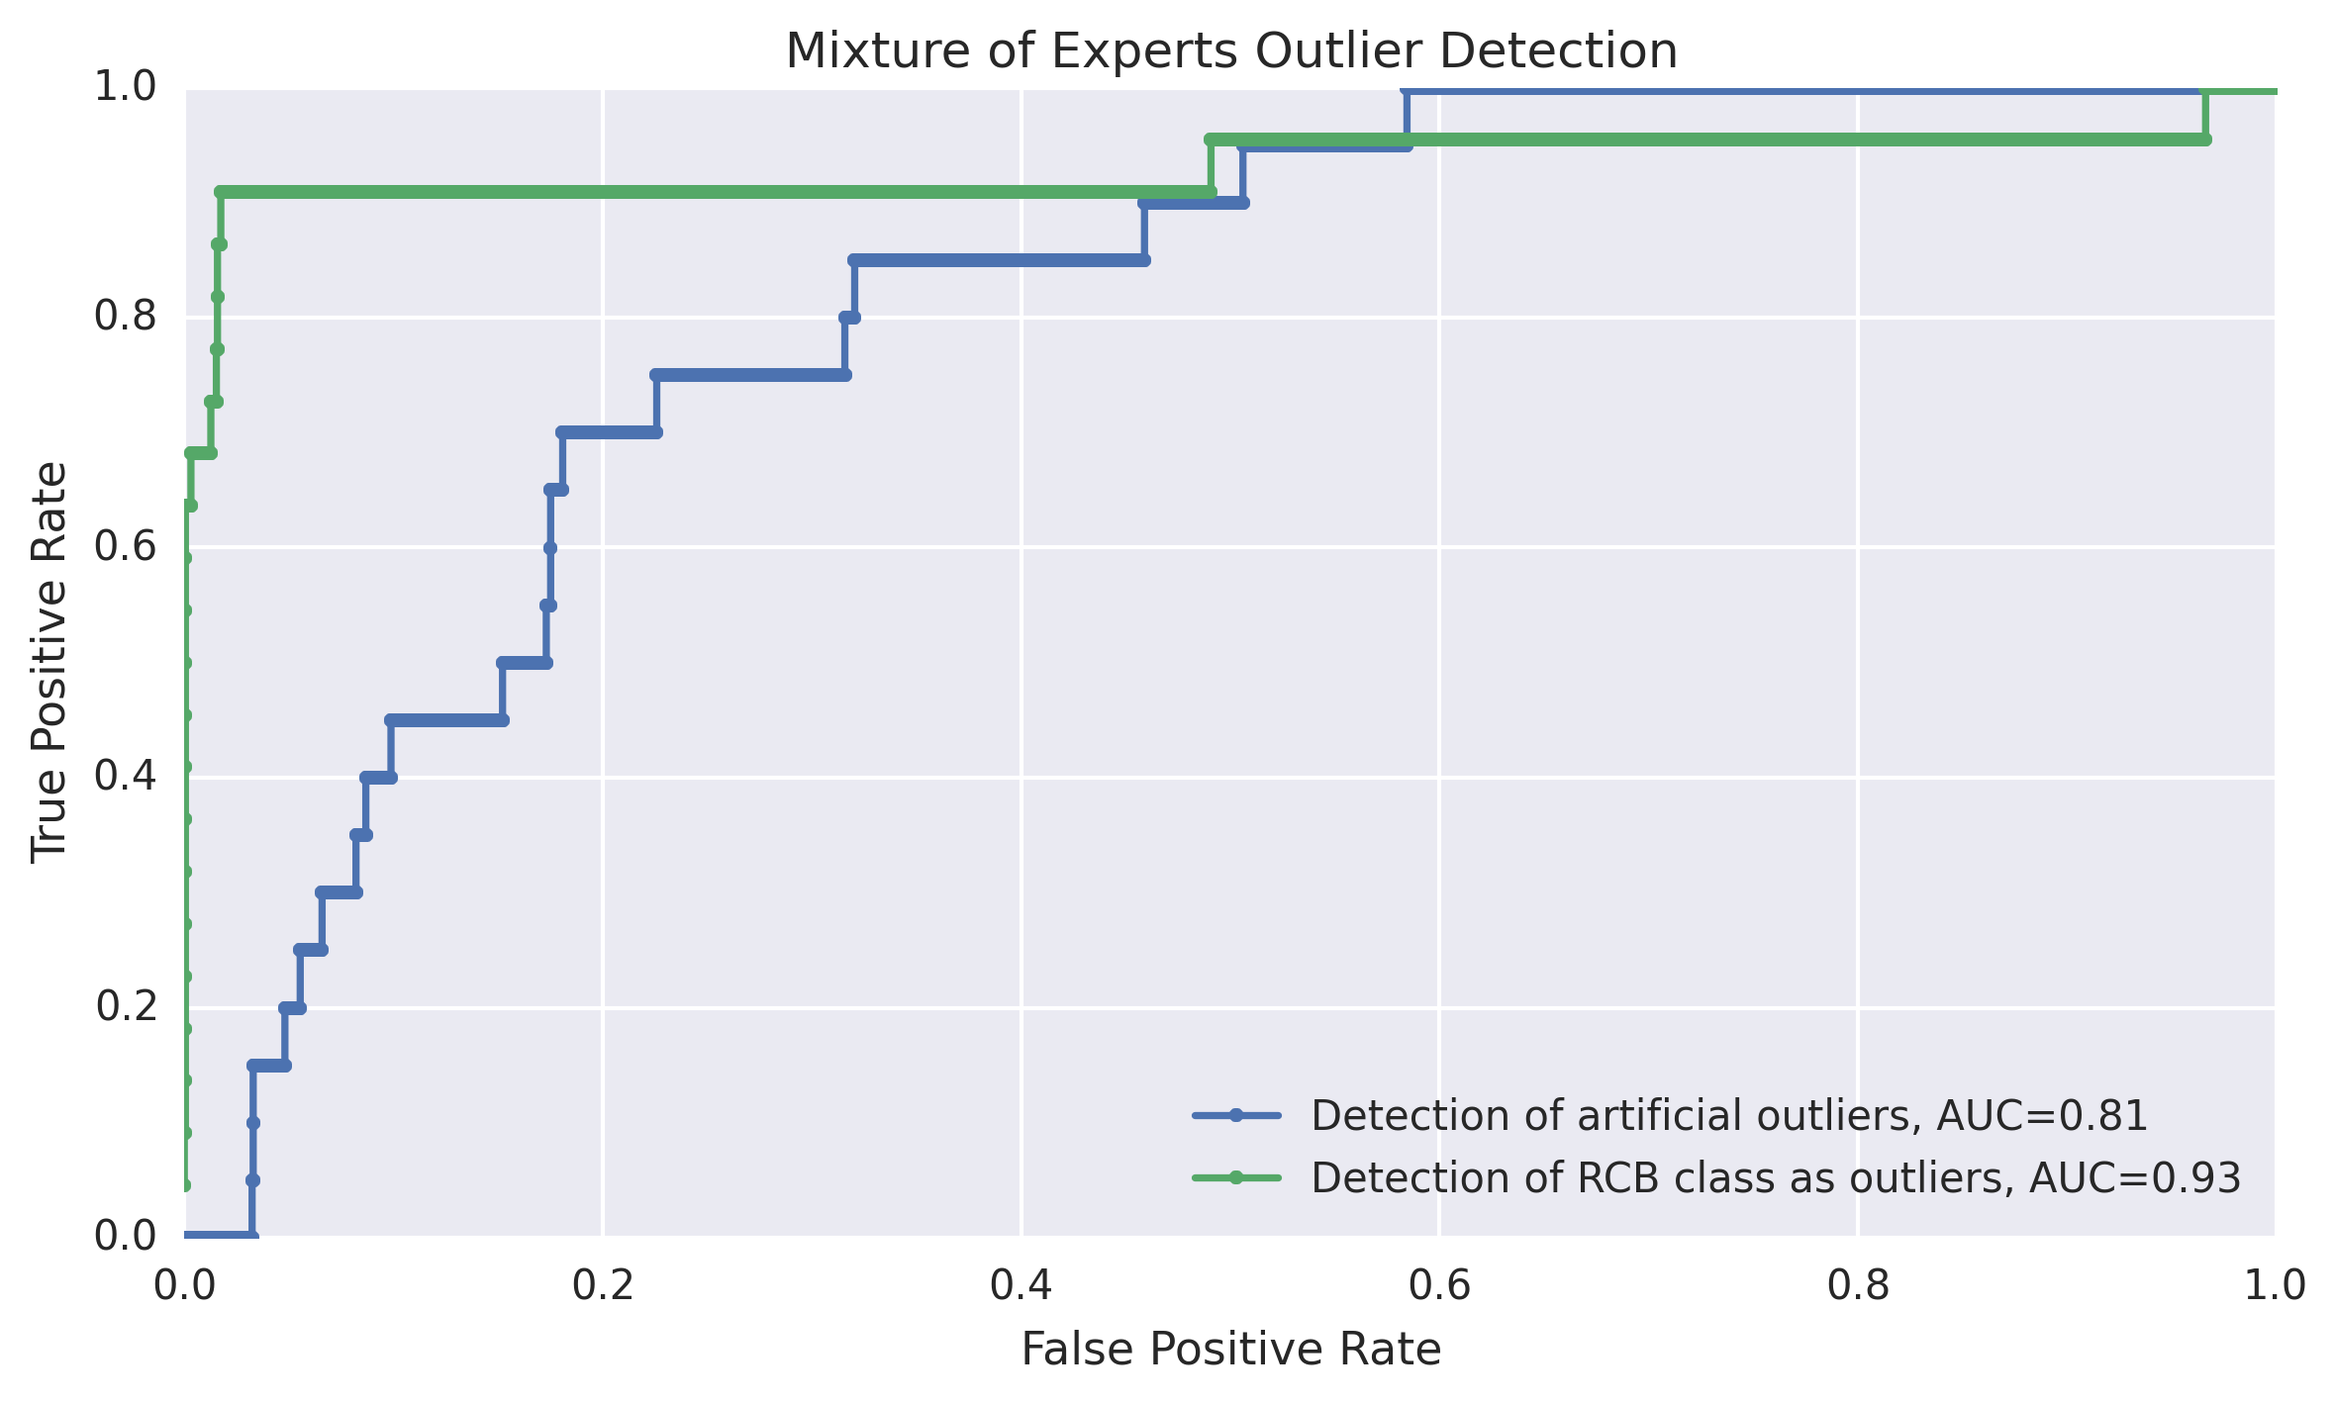
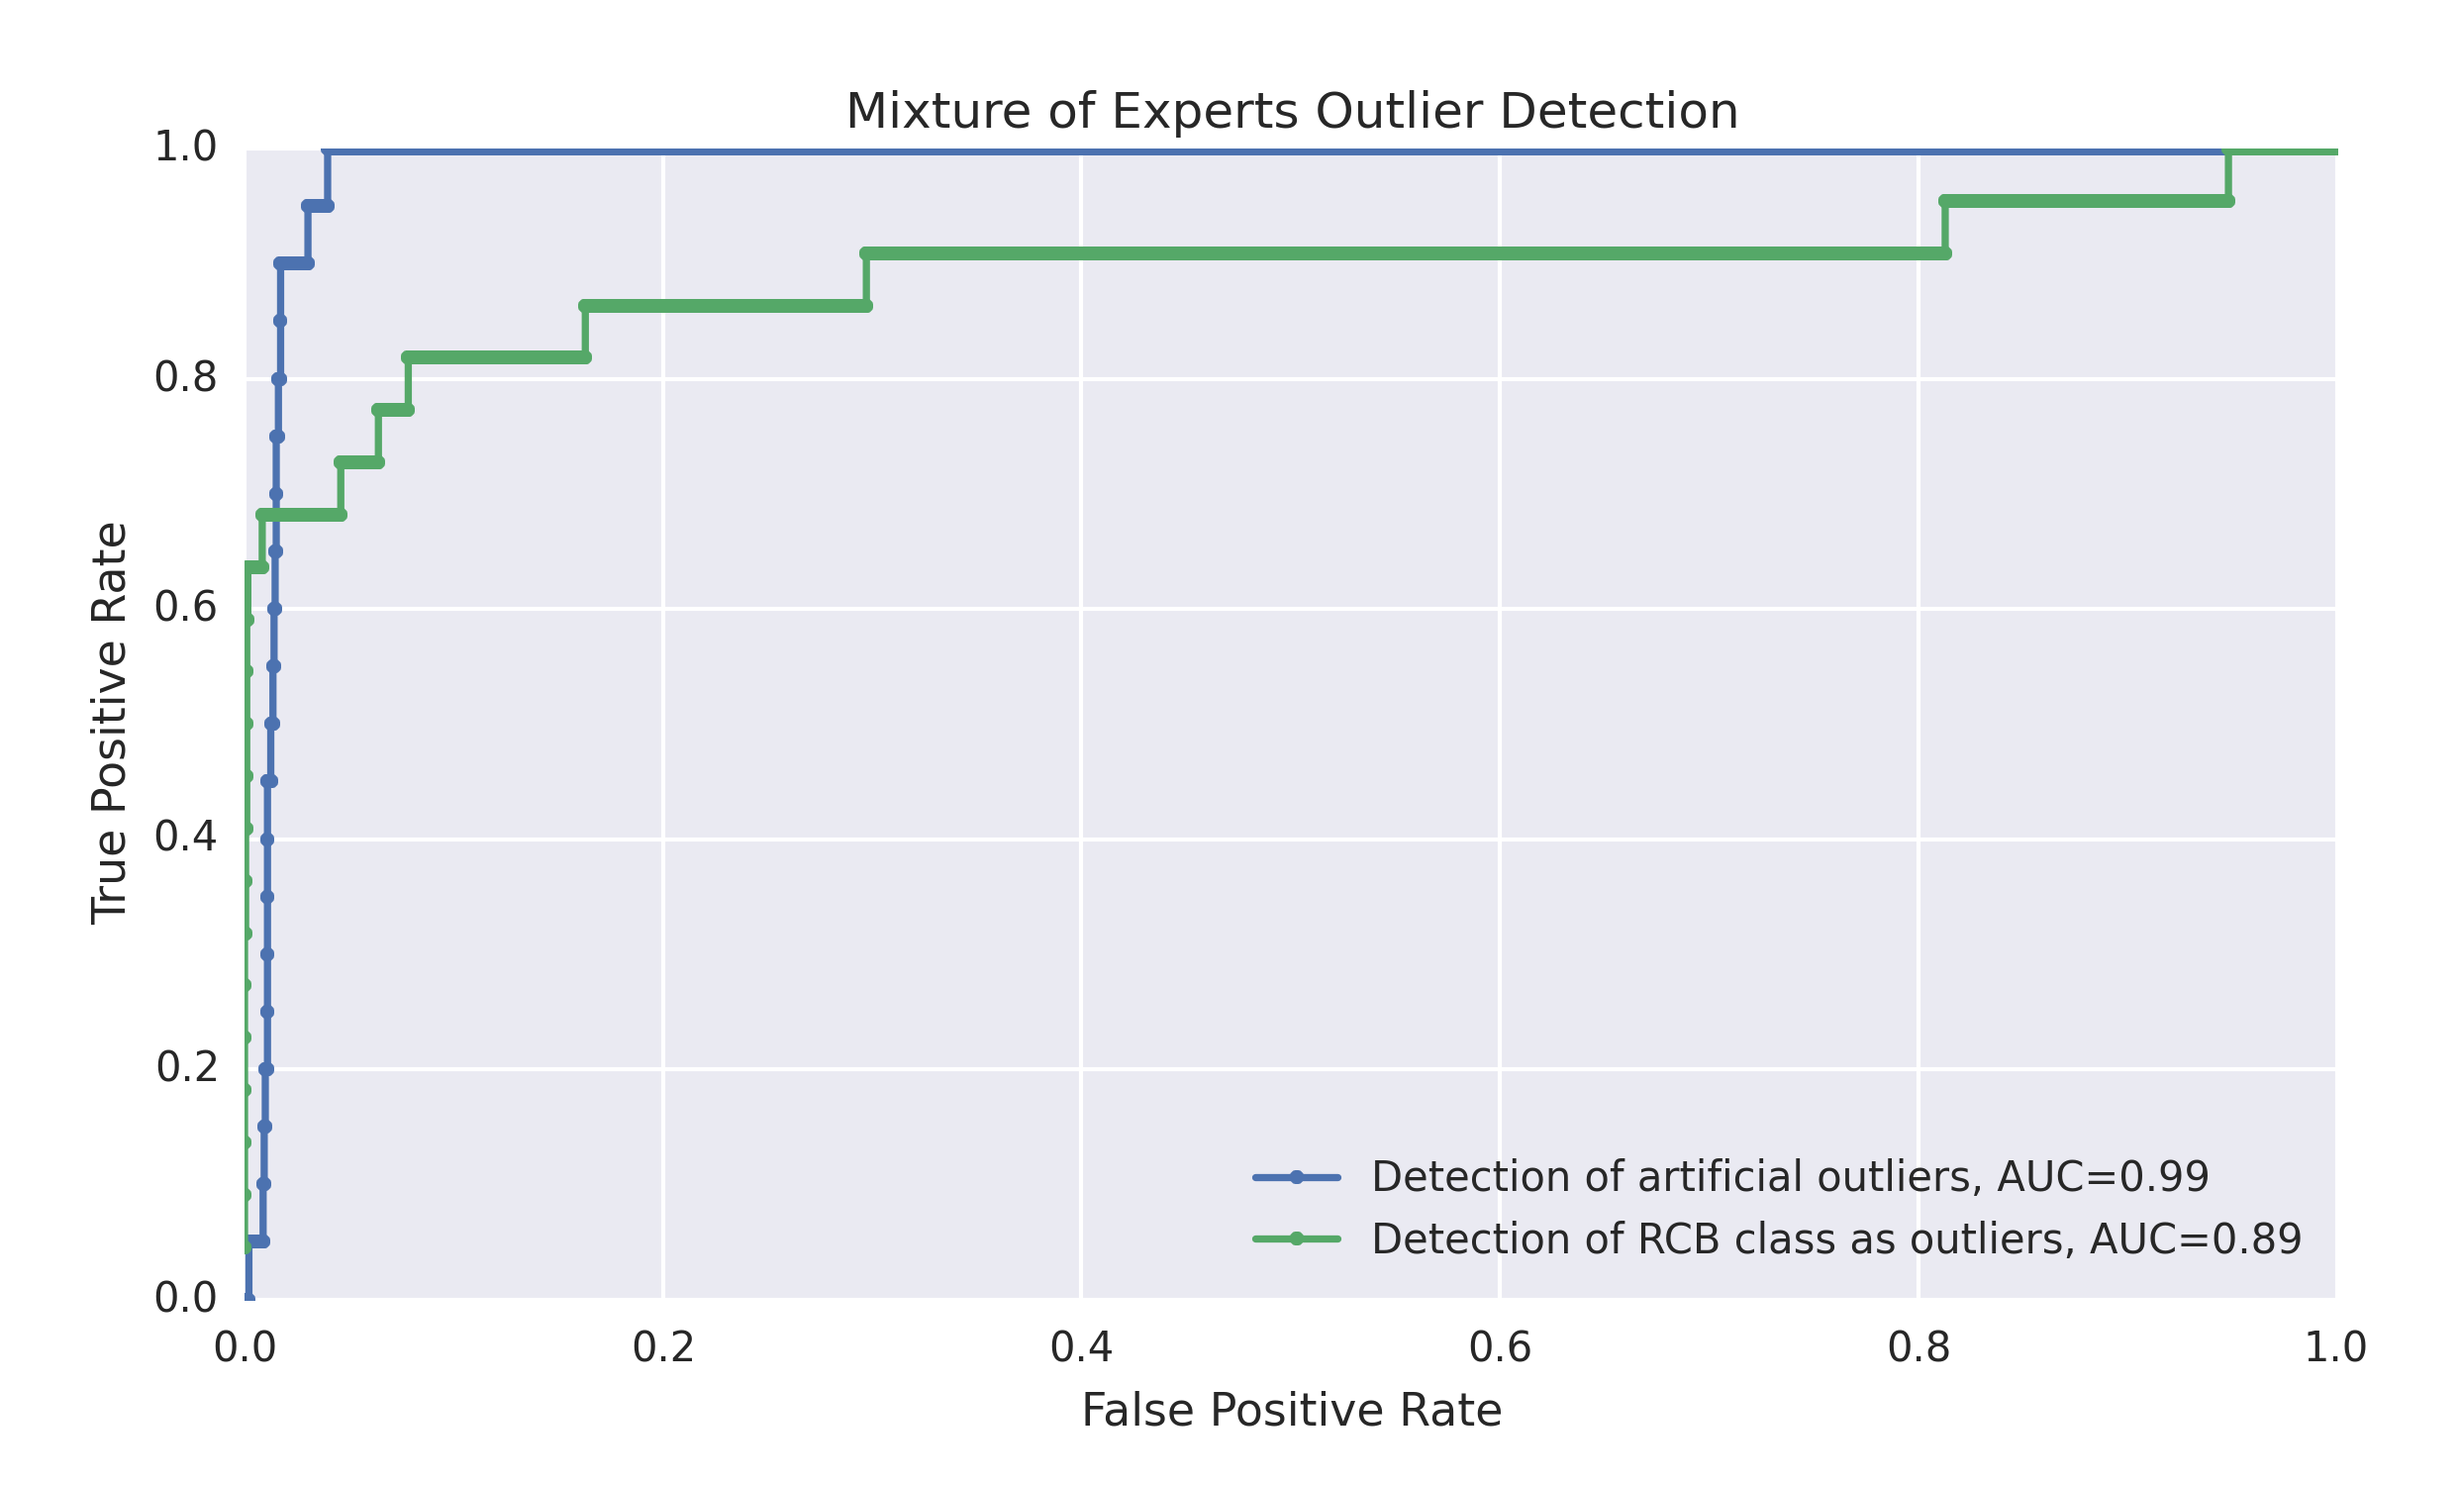
results for mix of exp

diff --git a/website/results.html b/website/results.html
@@ -122,6 +122,7 @@
 				<a href='images/Results1.png' data-lightbox='Results1'>
 				<img src="images/Results1.png" width="70%" style="margin-left: auto; margin-right: auto; display: block;margin-bottom:15px;"/></a>
 				<p class="caption"><strong>Figure R2. ROC for the combined mixture of experts outlier detection method. </strong> While the combined model does better in detecting rcb outliers, the results here suggest that a mixture of experts approach performs better than individual experts separately.</p>
+
 				<p>As shown above, the mixture of experts ensemble method is able to perform better (in most cases) than any of the individual outlier detection methods discussed in the previous section. Cases where it does similarly or worse than  individual outlier detection methods can be explained by our optimizing of <em>both</em> the rcb and the artificial outlier detection. The simultaneous optimization of two factors may have lead to a compromises in the absolute performance for each specific outlier class. </p>
 
 					<table>
@@ -196,17 +197,32 @@
 					    </tr>
 					    <tr>
 					      <td>Mixture of Experts</td>
-					      <td>0.??</td>
-					      <td>0.??</td>
-					      <td>0.??</td>
+					      <td>0.99</td>
+					      <td>0.89</td>
+					      <td>0.94</td>
 					    </tr>
 					   </tbody>
 					</table>
 				<p class="caption"><strong>Table R1. Area under the ROC curve (AUC) for various outlier detection methods.</strong> The AUC was used as a single-number metric to compare between ROC cruves (such as those seen in the Methods section). Bolded AUC values are from the outlier detection method that did the best under each outlier detection task (either detecing artificial outliers or the rcb class as outliers). </p>
 
-				<h5>Application to Larger Data Set</h5>
-				<p>We used out mixture of expert model trained with the 1913 outliers to detect outliers in the larger data set.</p>
+				<p>Table R1 shows the performance (as measured by AUC of the ROC curve) for each expert along with the performance of the mixture of experts. Since the mixture of experts is optimized for both artificial and rcb class outliers, it seems intuitive that the performance of detecting one type of outlier may be sacrificed for overall performance of both outliers. Thus, it makes sense that the average AUC for the mixture of experts is highest, but we would nto necessarily expect to see highest performance in detection of both artificial and rcb class outliers. However, the mixture still seems to be able to maintain high performance for the artificial outlier detection. </p>
 
+				<a href='images/Results2.png' data-lightbox='Results2'>
+				<img src="images/Results2.png" width="70%" style="margin-left: auto; margin-right: auto; display: block;margin-bottom:15px;"/></a>
+				<p class="caption"><strong>Figure R3. Data points with detected outliers plotted on the PCA plane (I-channel).</strong> Detected outliers are outlied in yellow. The threshold 1.1 was chosen by eye such that the obvious outliers were identified, yet not many points in the main cluster were identified as outlier. The false positive rate at this threshold is 1% and the true postive rate is 68%.</p>
+
+				<p>As can be seen, the mixture of experts model is able to identify almost all of the class rcb that appear to be far away frpm the other points on the PCA plane. With this threshold (1.1) the false positive rate is 1% and the true postive rate is 68%. Of course, depending on one's tolerance for type 1 or type 2 error, the threshold can be adjusted. </p>
+
+				<h5>Application to Larger Data Set</h5>
+				<p>We used out mixture of expert model trained with the 1913 outliers to detect outliers in the larger data set of 19812 light curves: 5344 from lpv, 1252 from dsct, 5365 from ecl, 202 from t2cep, 2139 from cep, 82 from acep, 5270 from rrlyr, 22 from rcb, and 136 from dpv. This set includes the training set. Note that the number of rcb class outliers is the same as the training set, so this exercise will show the performance of the mixture model in identifying the rcb class while dealing with more non-outlier data. </p>
+
+				<a href='images/Results3.png' data-lightbox='Results3'>
+				<img src="images/Results3.png" width="70%" style="margin-left: auto; margin-right: auto; display: block;margin-bottom:15px;"/></a>
+				<p class="caption"><strong>Figure R4. ROC for the combined mixture of experts outlier detection method. </strong> While the combined model does better in detecting rcb outliers, the results here suggest that a mixture of experts approach performs better than individual experts separately.</p>
+
+				<a href='images/Results4.png' data-lightbox='Results4'>
+				<img src="images/Results4.png" width="70%" style="margin-left: auto; margin-right: auto; display: block;margin-bottom:15px;"/></a>
+				<p class="caption"><strong>Figure R5. Data points with detected outliers plotted on the PCA plane (I-channel).</strong> Detected outliers are outlied in yellow. The threshold 1.1 was chosen by eye such that the obvious outliers were identified, yet not many points in the main cluster were identified as outlier. The false positive rate at this threshold is 1% and the true postive rate is 68%.</p>
 
 				<h5>Next Steps</h5>
 				<p>Future work should focus on the addition of more outlier detection "experts" to the model. In addition, the optimization of the gating parmeter $\eta$ in mixture of experts model may be optimized simultaneously with individual expert parameters using expectation maximization and stochastic gradient descent. In addition, we look to use our easily extensible code to extend our work to other domains - in particular, fraud detection in financial transaction networks, which we hope to look at next semester.</p>

diff --git a/website/data.html b/website/data.html
@@ -291,7 +291,7 @@
 
 				 <p>To train the mixture of experts model, a sample of 1913 light curves were used: 296 from lpv, 293 from dsct, 297 from ecl, 202 from t2cep, 294 from cep, 82 from acep, 291 from rrlyr, and 22 from rcb. Light curves were used only if there was data from both the I and the V channels. </p>
 
-				 <p>The trained model was then applied to a larger set of 19812 light curves: 136 from dpv, 5344 from lpv, 1252 from dsct, 5365 from ecl, 202 from t2cep, 2139 from cep, 82 from acep, 5270 from rrlyr, 22 from rcb. This set includes the training set. Light curves were used only if there was data from both the I and the V channels. </p>
+				 <p>The trained model was then applied to a larger set of 19812 light curves: 5344 from lpv, 1252 from dsct, 5365 from ecl, 202 from t2cep, 2139 from cep, 82 from acep, 5270 from rrlyr, 22 from rcb, and 136 from dpv. This set includes the training set. Light curves were used only if there was data from both the I and the V channels. </p>
 
 
 
